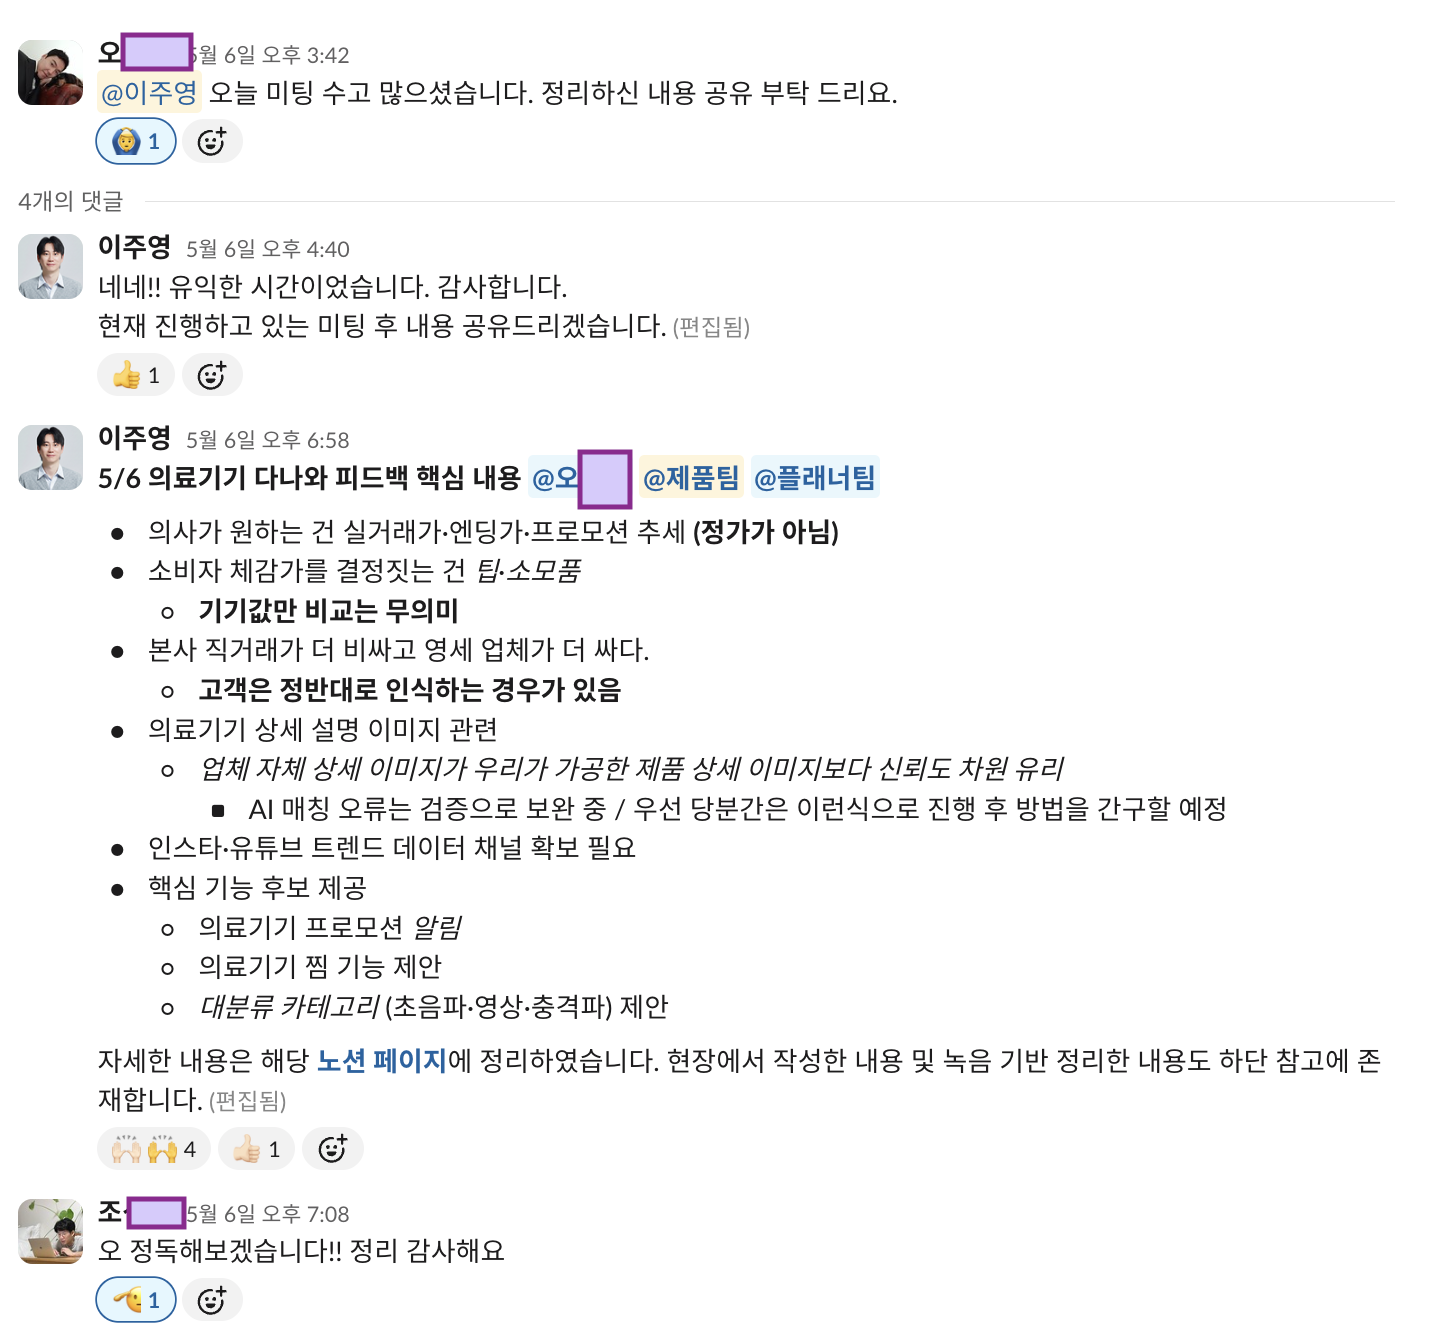
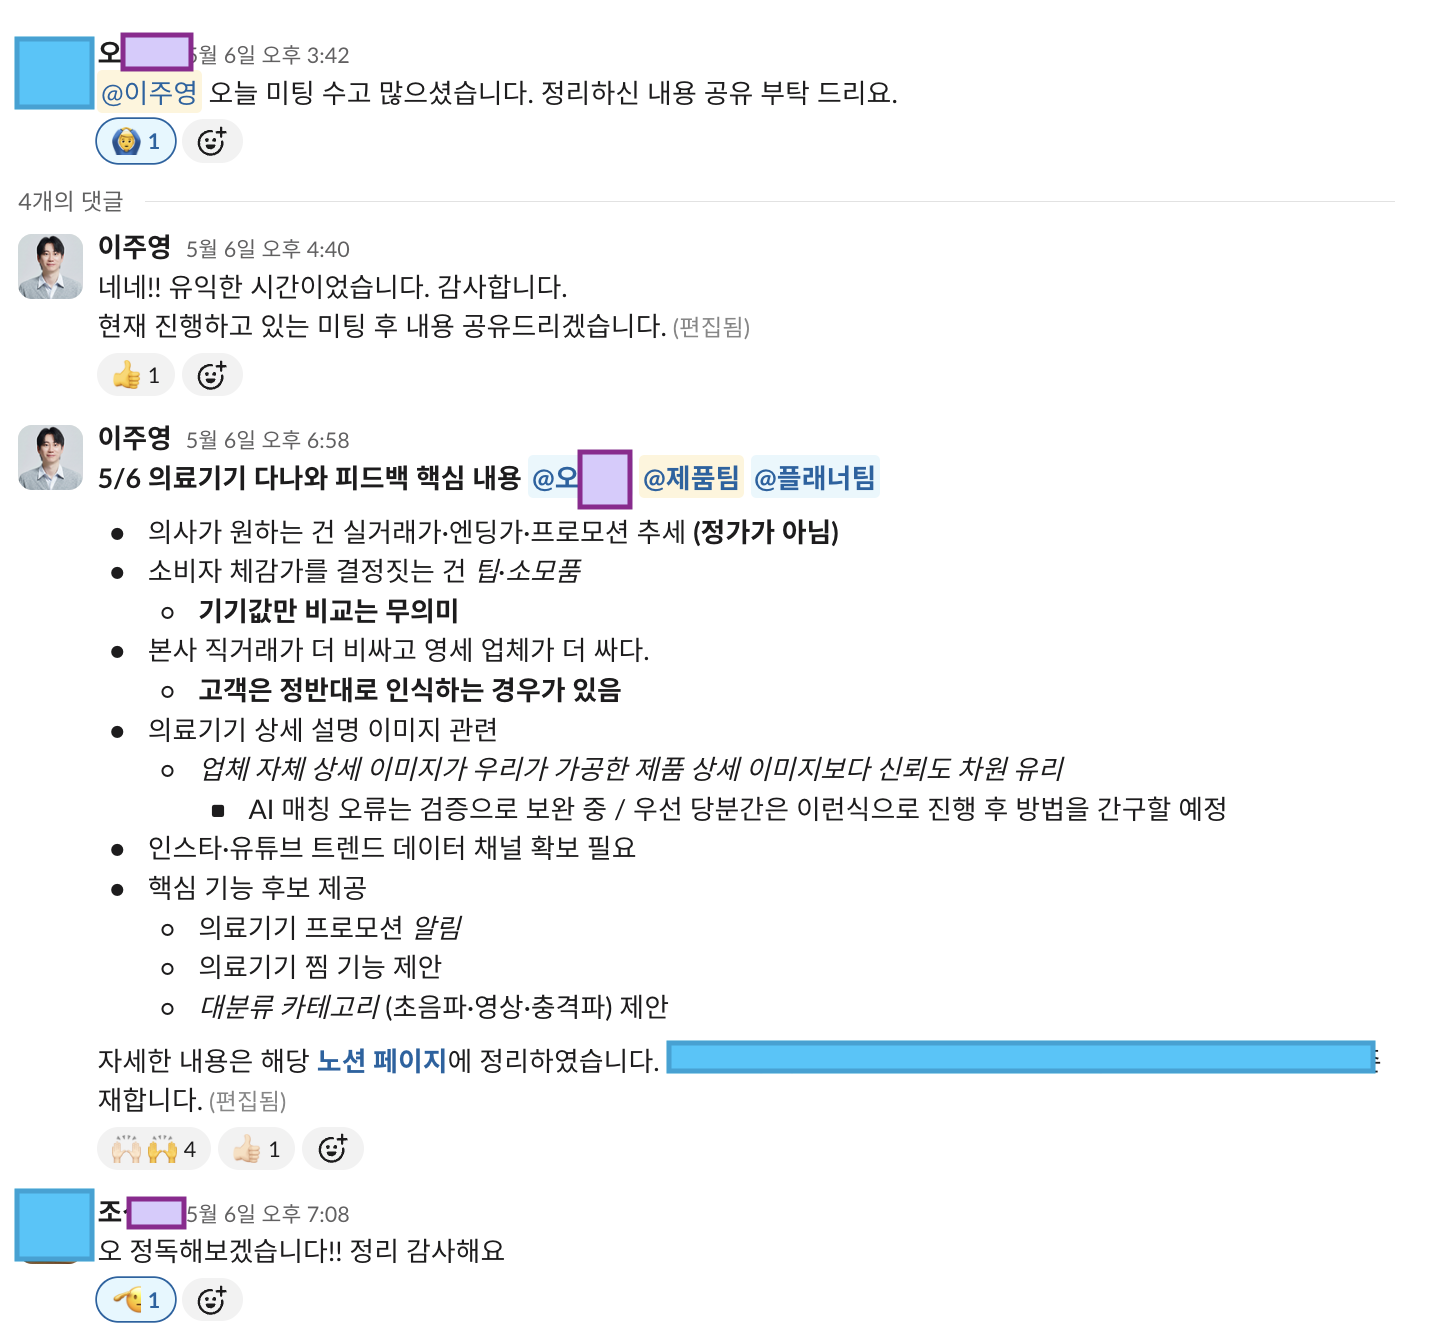
content: 5·6·7월 회고 작성 — 5월 STAR 재구성, 6·7월 개요 확장
- 5월: STAR 구조로 재작성, 미오 다국어·데이터설계 보강, 외부 링크 새 탭 처리(mdx.tsx), 이미지 2점 추가
- 6월: Vercel 대이관·네이버 지도 장애·SEO(png→html)·미팅 주도 개요 (draft)
- 7월: 오픈닥터 1년 회고 + 의원목록 SEO·웹뷰 튕김·팀장님 피드백 개요 (draft)

Changed region(s): [[0.4609, 0.7638, 0.9832, 0.8249], [0.0, 0.0, 0.0922, 0.0917], [0.0, 0.886, 0.0922, 0.9471]]

diff --git a/components/mdx.tsx b/components/mdx.tsx
@@ -16,6 +16,15 @@ const components = {
     // eslint-disable-next-line @next/next/no-img-element, jsx-a11y/alt-text
     <img loading="lazy" {...props} />
   ),
+  a: (props: React.AnchorHTMLAttributes<HTMLAnchorElement>) => {
+    // 외부 링크(http로 시작)는 새 탭에서 연다. 내부 링크·제목 앵커(#)는 그대로.
+    const isExternal = props.href?.startsWith("http");
+    return isExternal ? (
+      <a {...props} target="_blank" rel="noopener noreferrer" />
+    ) : (
+      <a {...props} />
+    );
+  },
 };
 
 export function Mdx({ source }: { source: string }) {
